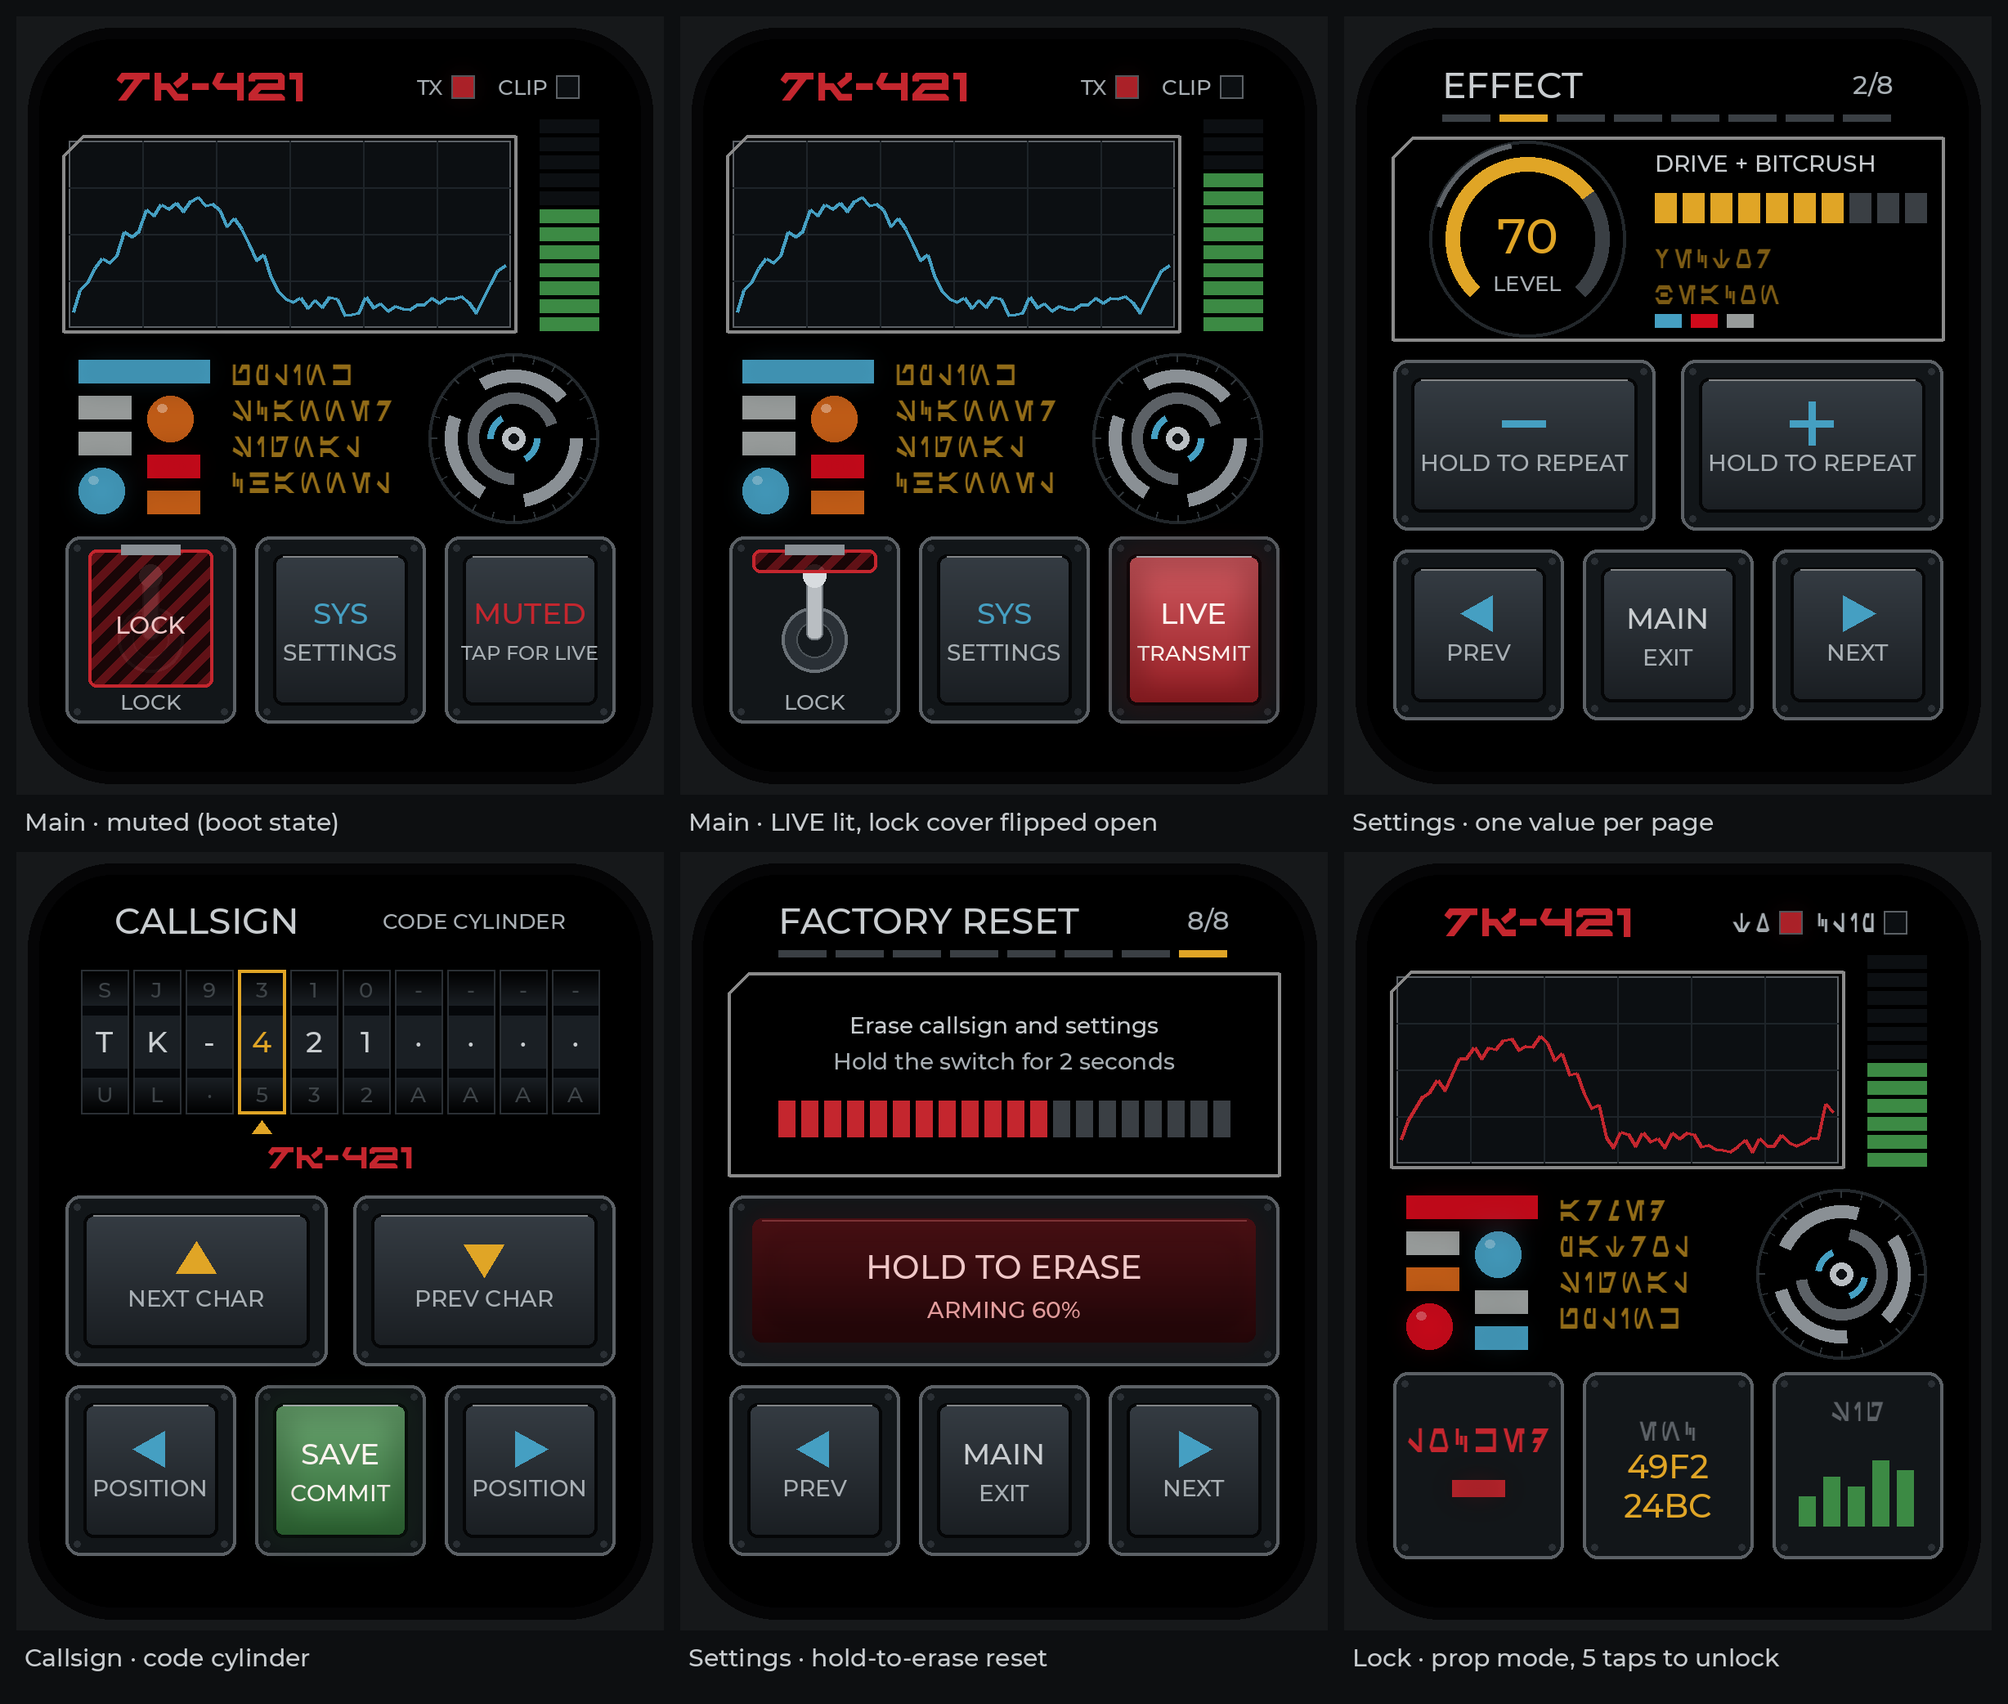
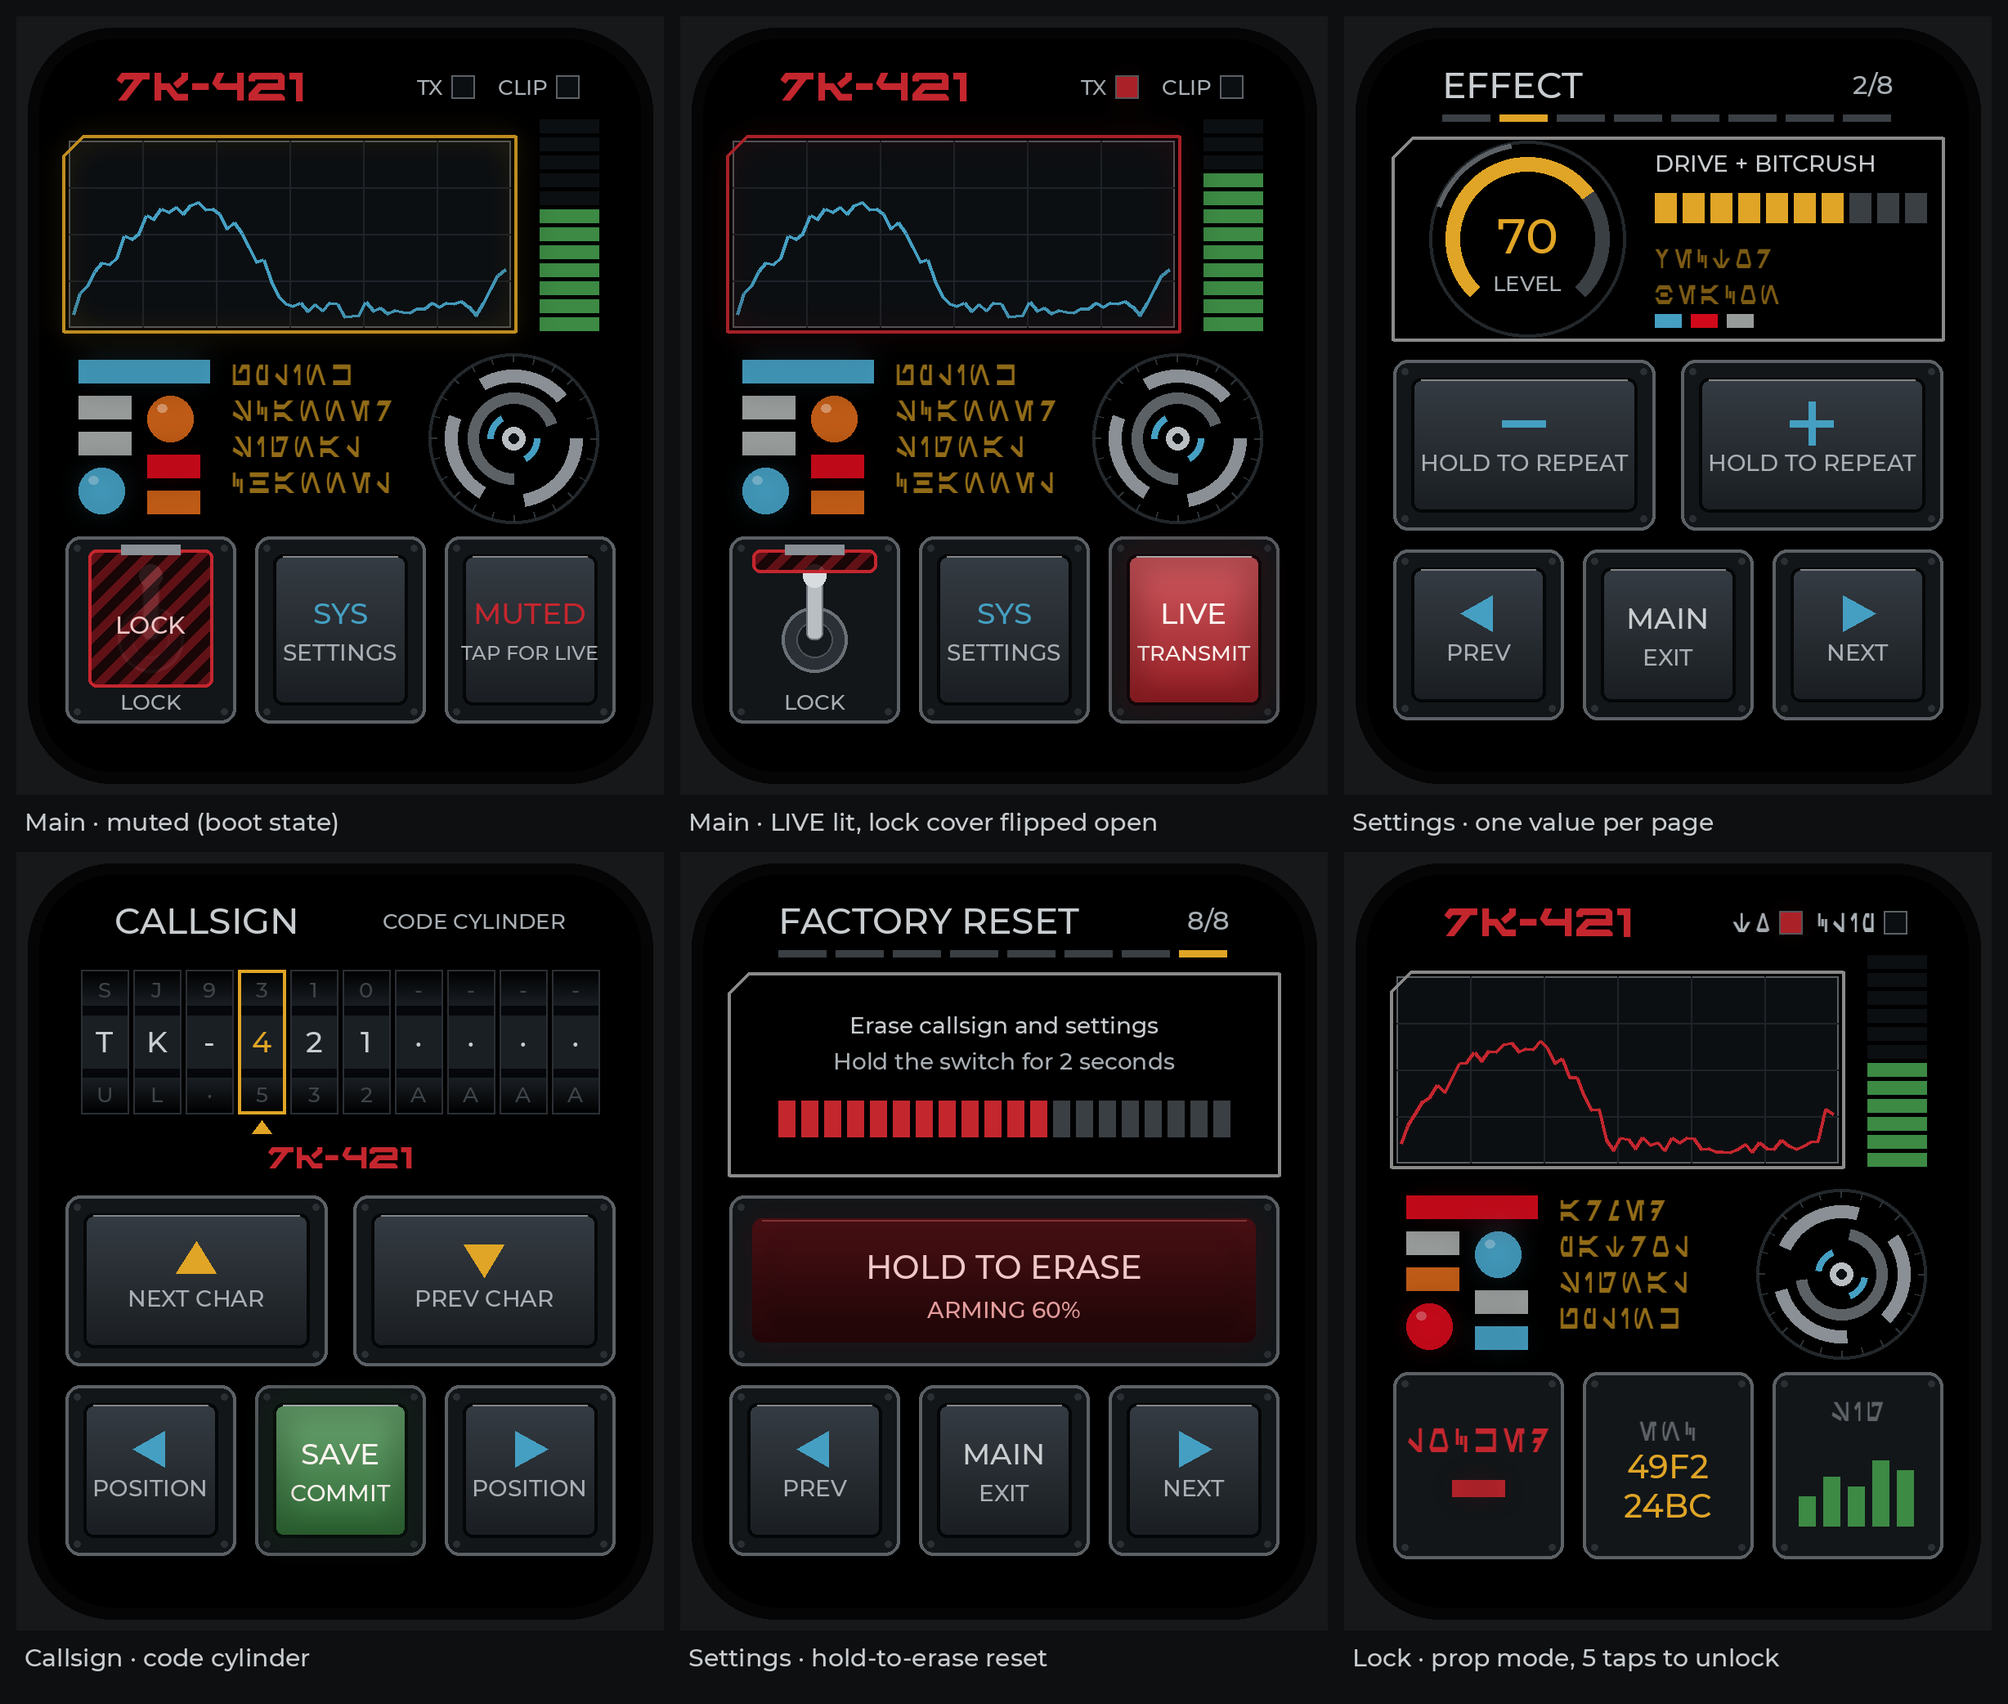
Mock-ups: voice-reactive console, background/live layer split
- GIF shows idle -> talking muted (amber scope frame) -> LIVE (red frame, TX lamp,
  faster rings and lamps, burst at key-up) -> wind down.
- Export the main screen's static background layer and a map of live areas.
- Spec: VOX-keyed reactions table; rendering plan (background image skin +
  live LVGL layer, cap images, rates, PSRAM, flash-size note).

Claude-Session: https://claude.ai/code/session_014PmTqdRFYRCH22NdKcRT7c

diff --git a/design/mockups/make_mockups.py b/design/mockups/make_mockups.py
@@ -256,7 +256,7 @@ def notched_frame(sc, x0, y0, x1, y1, col="#8A8A8A", n=12):
     sc.line([(x0, y0 + n), (x0 + n, y0), (x1, y0), (x1, y1), (x0, y1), (x0, y0 + n)], col, 2)
 
 
-def scope(sc, x0, y0, x1, y1, col, wave, phase=0):
+def scope(sc, x0, y0, x1, y1, col, wave, phase=0, frame_col="#8A8A8A", trace=True):
     sc.rect(x0, y0, x1, y1, fill=PANEL, outline=FRAME)
     for k in range(1, 4):
         yy = y0 + (y1 - y0) * k / 4
@@ -264,12 +264,17 @@ def scope(sc, x0, y0, x1, y1, col, wave, phase=0):
     for k in range(1, 6):
         xx = x0 + (x1 - x0) * k / 6
         sc.line([(xx, y0), (xx, y1)], "#1E2429", 1)
-    pts = []
-    n = len(wave)
-    for i, v in enumerate(wave):
-        pts.append((x0 + 3 + (x1 - x0 - 6) * i / (n - 1), y1 - 4 - (y1 - y0 - 8) * v / 100))
-    sc.line(pts, col, 2)
-    notched_frame(sc, x0 - 3, y0 - 3, x1 + 3, y1 + 3)
+    if trace:
+        pts = []
+        n = len(wave)
+        for i, v in enumerate(wave):
+            pts.append((x0 + 3 + (x1 - x0 - 6) * i / (n - 1), y1 - 4 - (y1 - y0 - 8) * v / 100))
+        sc.line(pts, col, 2)
+    if frame_col:
+        notched_frame(sc, x0 - 3, y0 - 3, x1 + 3, y1 + 3, frame_col)
+        if frame_col not in ("#8A8A8A",):       # keyed: frame glows in its colour
+            sc.g.line([(x * S, y * S) for x, y in [(x0 - 3, y0 + 9), (x0 + 9, y0 - 3), (x1 + 3, y0 - 3),
+                       (x1 + 3, y1 + 3), (x0 - 3, y1 + 3), (x0 - 3, y0 + 9)]], fill=hexrgb(frame_col, 200), width=6 * S)
 
 
 def seg_meter(sc, x, ybot, level, segs=12, w=36, h=8, red_from=9):
@@ -288,13 +293,18 @@ def small_lamp(sc, x, y, label, on, col=RED, f=None):
     sc.text(x - 5, y + 7, label, f or font(MONT, 13), LABEL, "rm")
 
 
-def voice_wave(n, seed, t=0):
+def voice_wave(n, seed, t=0, amp=None):
+    """Scrolling level trace. amp(k) -> 0..1 loudness at sample k (default: steady talking)."""
     rnd = random.Random(seed)
     out = []
     for i in range(n):
         k = i + t
+        a = 1.0
+        if amp is not None:          # trace shows the past: newest sample (frame t) at the right
+            k = t - (n - 1) + i
+            a = amp(k / 3.0)          # 3 scope samples per animation frame
         env = max(0, math.sin(k / 9.0)) ** 0.7 * (0.6 + 0.4 * math.sin(k / 23.0))
-        out.append(max(2, min(98, 8 + 70 * env + rnd.uniform(-6, 6))))
+        out.append(max(2, min(98, 6 + 70 * env * a + rnd.uniform(-5, 5) * max(0.3, a))))
     return out
 
 
@@ -320,12 +330,18 @@ def ticker(sc, x, y, tk, f, col):
 
 
 # ---------------- screens ----------------
-def main_screen(live=False, cover_open=False, t=0, lamp_states=None, lamp_opas=None, level=62, tk=None, rot=None):
+def main_screen(live=False, cover_open=False, t=0, lamp_states=None, lamp_opas=None, level=62, tk=None,
+                rot=None, keyed=None, wave=None):
+    """keyed: VOX gate open. Scope frame turns red when keyed + LIVE (transmitting),
+    amber when keyed but MUTED (the mic hears you, nothing goes out)."""
+    if keyed is None:
+        keyed = level > 22
+    frame_col = (RED if live else AMBER) if keyed else "#8A8A8A"
     sc = Screen()
     sc.text(46, 30, "TK-421", font(AURENG, 26), RED, "lm")
-    small_lamp(sc, 252, 22, "TX", level > 22)
+    small_lamp(sc, 252, 22, "TX", keyed and live)
     small_lamp(sc, 316, 22, "CLIP", False)
-    scope(sc, 18, 62, 288, 176, BLUE, voice_wave(60, 3, t))
+    scope(sc, 18, 62, 288, 176, BLUE, wave or voice_wave(60, 3, t), frame_col=frame_col)
     seg_meter(sc, 306, 178, level)
     lamps(sc, 24, 196, lamp_states or ["blue", "grey", "orange", "grey", "red", "blue", "orange"], lamp_opas)
     ticker(sc, 118, 198, tk or Ticker(4, 1), font(AUREB, 13), mix(AMBER, "#000000", 0.35))
@@ -337,6 +353,53 @@ def main_screen(live=False, cover_open=False, t=0, lamp_states=None, lamp_opas=N
     else:
         key(sc, 248, 304, 104, 114, "MUTED", RED, sub="TAP FOR LIVE")
     return sc
+
+
+# ---------------- background (static) layer vs live layer ----------------
+# Everything that never changes on the main screen is baked into one 368x448 background
+# image (the default "skin"); only the parts in MAIN_LIVE are LVGL objects drawn on top.
+MAIN_LIVE = [
+    ("callsign", 44, 14, 210, 46), ("TX lamp", 251, 21, 267, 37), ("CLIP lamp", 315, 21, 331, 37),
+    ("scope trace", 19, 63, 287, 175), ("scope frame (keyed colour)", 13, 57, 293, 181),
+    ("level meter", 305, 44, 343, 179), ("lamp cluster", 23, 195, 105, 291),
+    ("readout text", 116, 192, 238, 290), ("Scomp rings", 245, 199, 335, 289),
+    ("lock cover + switch", 28, 310, 108, 404), ("SYS cap", 142, 314, 226, 408),
+    ("LIVE/MUTED cap", 258, 314, 342, 408),
+]
+
+
+def main_background():
+    """Static layer only: panel art the live widgets sit in front of."""
+    sc = Screen()
+    for x, label in ((247, "TX"), (311, "CLIP")):
+        sc.text(x, 29, label, font(MONT, 13), LABEL, "rm")
+    scope(sc, 18, 62, 288, 176, BLUE, [], trace=False, frame_col=None)
+    for i in range(12):                                     # unlit meter wells
+        sc.rect(306, 178 - i * 11 - 8, 342, 178 - i * 11, fill="#07090B")
+    sc.d.ellipse(sc.b(290 - 52, 244 - 52, 290 + 52, 244 + 52), outline="#22272B", width=2 * S)
+    for k in range(24):
+        a = math.radians(k * 15)
+        sc.line([(290 + 47 * math.cos(a), 244 + 47 * math.sin(a)),
+                 (290 + 51 * math.cos(a), 244 + 51 * math.sin(a))], "#2E3438", 1)
+    for x in (16, 132, 248):                                # key housings with empty cap wells
+        housing(sc, x, 304, 104, 114)
+        sc.d.rounded_rectangle(sc.b(x + 11, 315, x + 93, 407), radius=CAP_R * S, fill="#07090B")
+    sc.text(68, 405, "LOCK", font(MONT, 13), LABEL, "mm")
+    return sc
+
+
+def layers_view():
+    """Full screen, dimmed, with every live (redrawn) area outlined and named."""
+    full = main_screen(live=True, level=70).finish()
+    dim = Image.blend(full, Image.new("RGB", full.size, (0, 0, 0)), 0.55)
+    d = ImageDraw.Draw(dim)
+    pad = 14 * S
+    f = ImageFont.truetype(MONT, 11 * S)
+    for name, x0, y0, x1, y1 in MAIN_LIVE:
+        box = [pad + x0 * S, pad + y0 * S, pad + x1 * S, pad + y1 * S]
+        d.rectangle(box, outline=(255, 64, 200), width=2 * S)
+        d.text((box[0] + 3 * S, box[1] + 2 * S), name, font=f, fill=(255, 140, 225))
+    return dim
 
 
 def lock_screen():
@@ -467,6 +530,8 @@ def main():
     ]
     for name, im, _ in shots:
         im.save(os.path.join(out, name + ".png"))
+    main_background().finish().save(os.path.join(out, "07_main_background_layer.png"))
+    layers_view().save(os.path.join(out, "08_main_live_areas.png"))
 
     # contact sheet
     tw, th = shots[0][1].size
@@ -478,30 +543,51 @@ def main():
         sd.text((x + 10, y + th + 14), cap, font=ImageFont.truetype(MONT, 30), fill="#C9CDD0")
     sheet.save(os.path.join(out, "00_contact_sheet.png"))
 
-    # animated main screen: lamps drift + red pulse fade, scomp link spins, scope scrolls
+    # animated main screen: idle -> talking (muted) -> BOOT -> talking LIVE -> quiet.
+    # Reactions follow the VOX gate, ramped (not per syllable): rings spin up, lamps change
+    # faster with a burst at key-up, a new readout line per key-up, scope frame amber/red.
     rnd = random.Random(7)
     states = ["blue", "grey", "orange", "grey", "red", "blue", "orange"]
     frames = []
     tk = Ticker(4, 1)
-    # Scomp link rings: each has its own speed (deg/frame) and randomly reverses or changes
-    # pace, like fake_knob_timer_cb in firmware3. Forced changes here so the short loop shows it.
     ang = [0.0, 90.0, 0.0]
     spd = [4.0, -8.0, 18.0]
-    changes = {18: (0, -6.0), 30: (2, -14.0), 44: (1, 5.0), 58: (0, 3.0), 66: (2, 20.0)}
-    for f in range(72):
-        if f in changes:
-            ring, v = changes[f]
-            spd[ring] = v
-        ang = [a + v for a, v in zip(ang, spd)]
-        if f % 14 == 13:          # one readout line changes about every 1.5 s
+    reversals = {14: 0, 52: 2, 70: 1, 88: 0}
+    boost = 1.0
+    N = 100
+    talk = lambda k: (20 <= k < 40) or (46 <= k < 78)        # when the user is speaking
+    amp = lambda k: 1.0 if talk(k) else 0.08
+    cap_font = ImageFont.truetype(MONT, 15)
+    was_keyed = False
+    for f in range(N):
+        live = f >= 43
+        keyed = talk(f) or (f < 82 and talk(f - 4))           # ~350 ms VOX hang after speech
+        if f in reversals:
+            spd[reversals[f]] *= -1
+        target = (2.6 if live else 1.4) if keyed else 1.0
+        boost += (target - boost) * (0.35 if target > boost else 0.12)   # spin up fast, wind down slow
+        ang = [a + v * boost for a, v in zip(ang, spd)]
+        if keyed and not was_keyed:                           # key-up: lamp burst + new readout line
+            for j in rnd.sample(range(7), 3 if live else 1):
+                states[j] = rnd.choice([c for c in LAMP if c != states[j]])
             tk.step()
-        if f % 12 == 11:
+        elif f % (3 if (keyed and live) else 14) == 2:
             j = rnd.randrange(7)
             states[j] = rnd.choice([c for c in LAMP if c != states[j]])
-        opas = [(0.45 + 0.55 * abs(math.sin((f + i * 5) / 7.6))) if s == "red" else 1 for i, s in enumerate(states)]
-        im = main_screen(live=f >= 36, t=f, rot=tuple(ang), lamp_states=list(states), lamp_opas=opas,
-                         level=int(40 + 35 * abs(math.sin(f / 5))), tk=tk).finish()
-        frames.append(im.resize((im.width // 2, im.height // 2), Image.LANCZOS))
+        if not keyed and f % 16 == 15:
+            tk.step()
+        was_keyed = keyed
+        opas = [(0.45 + 0.55 * abs(math.sin((f + i * 5) / 7.6))) if st == "red" else 1 for i, st in enumerate(states)]
+        level = int(20 + 60 * abs(math.sin(f / 3.3))) if talk(f) else 4
+        im = main_screen(live=live, t=f, rot=tuple(ang), lamp_states=list(states), lamp_opas=opas,
+                         level=level, tk=tk, keyed=keyed, wave=voice_wave(60, 3, f * 3, amp)).finish()
+        im = im.resize((im.width // 2, im.height // 2), Image.LANCZOS)
+        cap = ("idle · muted" if f < 20 else "talking · MUTED: amber frame, mild spin-up" if f < 43
+               else "talking · LIVE: red frame, TX lamp, faster" if keyed else "quiet · winding down")
+        frame = Image.new("RGB", (im.width, im.height + 30), "#0D0F11")
+        frame.paste(im, (0, 0))
+        ImageDraw.Draw(frame).text((12, im.height + 7), cap, font=cap_font, fill="#C9CDD0")
+        frames.append(frame)
     frames[0].save(os.path.join(out, "main_alive.gif"), save_all=True, append_images=frames[1:],
                    duration=110, loop=0)
     print("wrote", len(shots), "screens, contact sheet, main_alive.gif to", out)

diff --git a/docs/UI-DESIGN.md b/docs/UI-DESIGN.md
@@ -128,6 +128,46 @@ that is why the callsign screen becomes one-character-at-a-time.
 - Key press: instant fill, 80 ms release.
 - Respect frame rate: the SH8601 path redraws over QSPI; keep animated areas small.
 
+## 6a. Reacting to the voice (VOX keyed)
+
+Trigger is the **VOX gate** (open while speaking + ~350 ms hang), not the raw level, so it follows
+speech, not room noise, and lines up with the key-up / key-down clicks. Changes **ramp**:
+spin up in ~0.5 s, wind down over 1–2 s. Nothing flashes per syllable (the meter and scope
+already show the raw voice).
+
+| Element | Idle | Keyed while MUTED | Keyed while LIVE (transmitting) |
+|---|---|---|---|
+| Scope frame | grey | **amber** | **red** (with a soft glow) |
+| Scomp rings | slow drift, random reversals | ~1.4× speed | ~2.5× speed, speed loosely follows smoothed level; reversals continue |
+| Lamp cluster | one change every 20–40 s | unchanged, one lamp flips at key-up | a change every 1–3 s, burst of 2–3 lamps at key-up |
+| TX lamp (real) | off | off | steady red |
+| Readout text | one line every few s | — | new line at each key-up ("logging the transmission") |
+
+Demo: `design/mockups/main_alive.gif` (idle → talking muted → BOOT → talking LIVE → quiet).
+
+## 6b. Rendering: background image + live layer
+
+To keep redraws cheap on the SH8601 QSPI panel:
+- **Background layer** — every static part of a screen (key housings + screws + empty cap
+  wells, scope panel + grid, meter wells, Scomp socket plate + ticks, fixed labels like TX /
+  CLIP / LOCK) is one pre-rendered 368 × 448 RGB565 image (≈ 330 KB). It is the default
+  **skin**: later skins replace this image only.
+- **Live layer** — only what changes is an LVGL object on top: callsign, TX/CLIP lamps, scope
+  trace and frame, meter segments, lamp cluster, readout text, Scomp rings, lock cover/switch,
+  key caps (pressed / lit). See `design/mockups/08_main_live_areas.png`.
+- A change redraws only its own rectangle; behind it LVGL copies the matching patch of the
+  background (a straight copy) instead of re-drawing gradients, rounded corners and glows.
+- **Key caps as images**: off / lit / pressed are small pre-drawn images; a state change is one
+  copy. Glows are baked into the lit image, never drawn live on animated objects.
+- **Rates**: rings ≤ 20 updates/s, scope 25/s (40 ms), lamps ≤ 10/s, readout ≤ 1/s.
+- **Memory**: images live in flash and are copied to PSRAM at boot (ESP32-S3R8: 8 MB octal
+  PSRAM, enabled in firmware3). firmware3's sdkconfig says 4 MB flash with a 3 MB app, but the
+  board ships with 16 MB (Waveshare factory images are 16 MB) — raise the flash size and add an
+  assets partition when images go in.
+- Measure on hardware with LVGL's performance monitor (currently off in firmware3).
+- Background art is produced by `design/mockups/make_mockups.py`
+  (`07_main_background_layer.png` is the main screen's layer).
+
 ## 7. AMOLED care (static UI = burn-in risk)
 
 - Black background everywhere; static frames in `FRAME` grey, not white.
